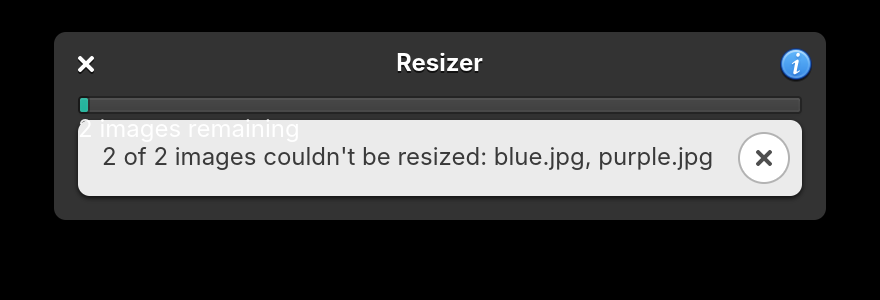
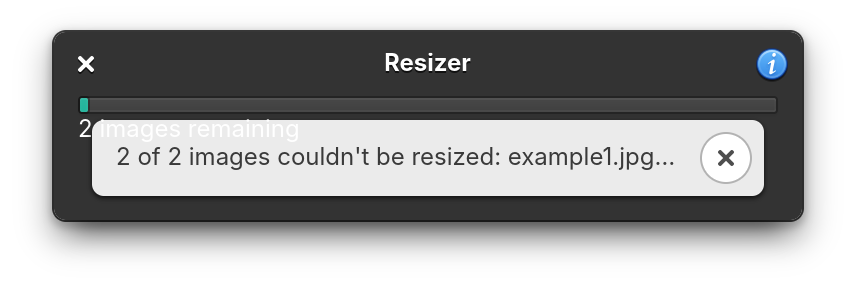
Transparent backgrounds

diff --git a/scripts/screenshots.py b/scripts/screenshots.py
@@ -10,8 +10,9 @@ Usage: ./scripts/screenshots.py [os-version]
 
 Requires a real desktop session (DISPLAY=:0, not xvfb-run - this wants the
 actual elementary OS theme rendered, not a headless render) with xdotool,
-ImageMagick (import/convert/identify) and accessibility (AT-SPI) enabled.
-See CLAUDE.md "GUI testing" for why GDK_BACKEND=x11 is needed on this
+ImageMagick (convert/identify), accessibility (AT-SPI) enabled, and a
+compositor that implements org.gnome.Shell.Screenshot (gala, Pantheon's own,
+does). See CLAUDE.md "GUI testing" for why GDK_BACKEND=x11 is needed on this
 Wayland desktop.
 """
 import argparse
@@ -36,7 +37,7 @@ except ImportError:
     raise
 
 gi.require_version("Atspi", "2.0")
-from gi.repository import Atspi, GLib  # noqa: E402
+from gi.repository import Atspi, Gio, GLib  # noqa: E402
 
 # Otherwise fully buffered (not line-buffered) whenever stdout isn't a tty -
 # e.g. when a wrapper script or task runner captures this script's output to
@@ -181,7 +182,7 @@ def click_and_wait_for_mid_progress(button_name, find_timeout=5.0, mid_timeout=2
 
 
 def check_requirements():
-    for cmd in ("xdotool", "import", "convert", "identify", "gsettings"):
+    for cmd in ("xdotool", "convert", "identify", "gsettings"):
         if shutil.which(cmd) is None:
             sys.exit(f"Required tool '{cmd}' not found on PATH.")
     if not os.environ.get("DISPLAY"):
@@ -196,6 +197,20 @@ def check_requirements():
             "Accessibility (AT-SPI) is switched off, so this script can't find/click the app's buttons.\n"
             "Enable it with: gsettings set org.gnome.desktop.interface toolkit-accessibility true"
         )
+    bus = Gio.bus_get_sync(Gio.BusType.SESSION, None)
+    has_owner, = bus.call_sync(
+        "org.freedesktop.DBus",
+        "/org/freedesktop/DBus",
+        "org.freedesktop.DBus",
+        "NameHasOwner",
+        GLib.Variant("(s)", ("org.gnome.Shell",)),
+        GLib.VariantType("(b)"),
+        Gio.DBusCallFlags.NONE,
+        -1,
+        None,
+    ).unpack()
+    if not has_owner:
+        sys.exit("org.gnome.Shell isn't available on the session bus - is this compositor Pantheon's gala?")
     # The app is single-instance (GApplication): if a real instance is
     # already running, our launches below would just hand it their file
     # args instead of starting their own process, and every AT-SPI/window
@@ -285,19 +300,51 @@ def color_count(path):
         return None
 
 
+# Lazily created, reused for every capture in the run.
+_screenshot_proxy = None
+
+
+def capture_window(window_id, out_path):
+    """Screenshots window_id to out_path with a real alpha channel, via the
+    compositor's own org.gnome.Shell.Screenshot D-Bus interface (gala
+    implements this)
+    """
+    global _screenshot_proxy
+    subprocess.run(["xdotool", "windowactivate", window_id], capture_output=True)
+    time.sleep(0.05)
+    if _screenshot_proxy is None:
+        _screenshot_proxy = Gio.DBusProxy.new_for_bus_sync(
+            Gio.BusType.SESSION,
+            Gio.DBusProxyFlags.NONE,
+            None,
+            "org.gnome.Shell",
+            "/org/gnome/Shell/Screenshot",
+            "org.gnome.Shell.Screenshot",
+            None,
+        )
+    try:
+        result = _screenshot_proxy.call_sync(
+            "ScreenshotWindow",
+            GLib.Variant("(bbbs)", (True, False, False, str(out_path))),
+            Gio.DBusCallFlags.NONE,
+            2000,
+            None,
+        )
+    except GLib.Error as e:
+        print(f"ScreenshotWindow failed: {e}", file=sys.stderr)
+        return False
+    success, _filename_used = result.unpack()
+    return success
+
+
 def capture_when_painted(window_id, out_path):
     # Retries for a couple seconds if the frame comes back as a single flat
     # color - the window can report as mapped before GTK has actually
     # painted anything into it yet, and a fixed sleep before the first
     # capture isn't always enough (same issue and fix as smoke-test.sh's
-    # pixel retry loop, see CLAUDE.md "GUI testing"). The timeout on
-    # `import` guards against it hanging instead of failing fast on an
-    # already-closed window.
+    # pixel retry loop, see CLAUDE.md "GUI testing").
     for _ in range(20):
-        try:
-            subprocess.run(["import", "-window", window_id, str(out_path)], timeout=1, stderr=subprocess.DEVNULL)
-        except subprocess.TimeoutExpired:
-            pass
+        capture_window(window_id, out_path)
         colors = color_count(out_path)
         if colors is not None and colors > 20:
             return
@@ -383,10 +430,7 @@ def capture_resizing(variant):
                 # updated frame that still shows the previous value.
                 time.sleep(0.08)
                 out_path = OUT_DIR / f"screenshot-{OS_VERSION}-{variant}-resizing.png"
-                try:
-                    subprocess.run(["import", "-window", window_id, str(out_path)], timeout=1, stderr=subprocess.DEVNULL)
-                except subprocess.TimeoutExpired:
-                    pass
+                capture_window(window_id, out_path)
                 print(f"  wrote screenshot-{OS_VERSION}-{variant}-resizing.png")
             else:
                 print(f"warning: never caught a mid-progress frame for {variant}, skipping", file=sys.stderr)
